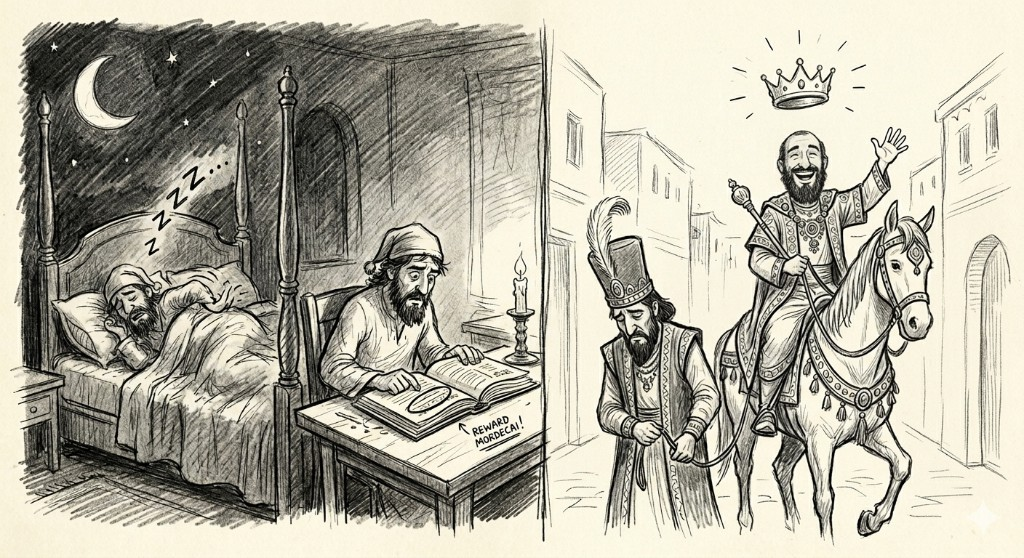
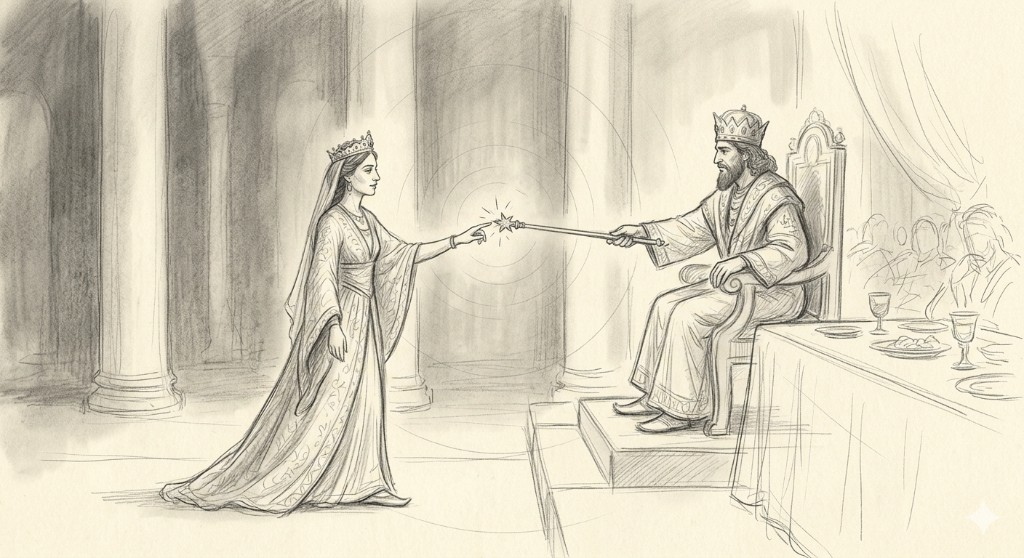
Update chapter 4 and 5 sketches, add responsive layout
New pencil art for Esther 4 and 5, mobile-friendly CSS, and image cache-busting so browsers load fresh sketches.

diff --git a/index.html b/index.html
@@ -2,7 +2,9 @@
 <html lang="en">
 <head>
 <meta charset="UTF-8">
-<meta name="viewport" content="width=device-width, initial-scale=1.0">
+<meta name="viewport" content="width=device-width, initial-scale=1.0, viewport-fit=cover">
+<meta name="theme-color" content="#FFF5EE">
+<meta name="mobile-web-app-capable" content="yes">
 <title>Esther: Animated Bible Study</title>
 <link rel="preconnect" href="https://fonts.googleapis.com">
 <link rel="preconnect" href="https://fonts.gstatic.com" crossorigin>
@@ -18,7 +20,9 @@
 *{margin:0;padding:0;box-sizing:border-box}
 html{scroll-behavior:smooth}
 body{background:var(--bg);color:var(--ink);font-family:'Spectral',Georgia,serif;
-  line-height:1.7;overflow-x:hidden;-webkit-font-smoothing:antialiased;}
+  font-size:clamp(1rem,.95rem + .25vw,1.08rem);line-height:1.7;overflow-x:hidden;
+  -webkit-font-smoothing:antialiased;-webkit-text-size-adjust:100%;text-size-adjust:100%;}
+img,svg,video{max-width:100%;height:auto}
 body::before{content:"";position:fixed;inset:0;z-index:-2;
   background:radial-gradient(1100px 700px at 85% -8%,rgba(186,64,115,.22),transparent 55%),
     radial-gradient(1000px 650px at -8% 30%,rgba(122,28,39,.18),transparent 55%),
@@ -31,13 +35,17 @@ body::before{content:"";position:fixed;inset:0;z-index:-2;
   box-shadow:0 0 14px rgba(186,64,115,.5);transition:width .1s linear;}
 nav{position:fixed;top:4px;left:0;right:0;z-index:90;background:rgba(255,245,238,.92);
   backdrop-filter:blur(14px);border-bottom:1px solid var(--line);
-  padding:.6rem clamp(1rem,4vw,3rem);display:flex;align-items:center;gap:1rem;flex-wrap:wrap;}
-nav .brand{font-family:'Fraunces',serif;font-weight:700;font-size:1.05rem;color:var(--magenta);white-space:nowrap;}
+  padding:.6rem clamp(.75rem,3vw,3rem);padding-left:max(.75rem,env(safe-area-inset-left));
+  padding-right:max(.75rem,env(safe-area-inset-right));
+  display:flex;align-items:center;gap:.65rem 1rem;flex-wrap:wrap;}
+nav .brand{font-family:'Fraunces',serif;font-weight:700;font-size:clamp(.95rem,2.5vw,1.05rem);
+  color:var(--magenta);white-space:nowrap;flex-shrink:0;}
 nav .brand span{color:var(--rose-deep)}
-nav .chips{display:flex;gap:.3rem;flex-wrap:wrap;}
+nav .chips{display:flex;gap:.35rem;flex-wrap:wrap;flex:1 1 auto;min-width:0;}
 nav .chip{font-family:'Quicksand',sans-serif;font-weight:700;font-size:.8rem;color:var(--purple);
-  border:1.5px solid rgba(122,28,39,.25);border-radius:30px;padding:.22rem .6rem;cursor:pointer;
-  transition:.25s;background:rgba(146,31,69,.06);}
+  border:1.5px solid rgba(122,28,39,.25);border-radius:30px;padding:.35rem .65rem;cursor:pointer;
+  transition:.25s;background:rgba(146,31,69,.06);min-height:2.5rem;min-width:2.5rem;
+  touch-action:manipulation;-webkit-tap-highlight-color:transparent;}
 nav .chip:hover{background:rgba(146,31,69,.14)}
 nav .chip.active{color:#fff;background:linear-gradient(135deg,var(--rose),var(--magenta));
   box-shadow:0 4px 12px rgba(146,31,69,.35);}
@@ -48,8 +56,10 @@ nav .chip.active{color:#fff;background:linear-gradient(135deg,var(--rose),var(--
 #sync-status.error{background:rgba(87,18,22,.15);color:var(--grape);}
 
 /* ── HERO ── */
-header.hero{min-height:100vh;display:flex;flex-direction:column;justify-content:center;
-  align-items:center;text-align:center;padding:6rem 1.5rem 3rem;position:relative;}
+header.hero{min-height:100vh;min-height:100dvh;min-height:100svh;display:flex;flex-direction:column;
+  justify-content:center;align-items:center;text-align:center;
+  padding:clamp(4.5rem,12vw,6rem) clamp(1rem,4vw,1.5rem) clamp(2rem,6vw,3rem);position:relative;}
+.hero-art{width:min(200px,78vw);height:auto;display:block}
 .hero .eyebrow{font-family:'Quicksand',sans-serif;font-weight:700;letter-spacing:.4em;
   text-transform:uppercase;color:var(--rose-deep);font-size:.82rem;margin:1.4rem 0 .6rem;
   animation:fade .9s ease both .1s;}
@@ -59,9 +69,10 @@ header.hero{min-height:100vh;display:flex;flex-direction:column;justify-content:
 .hero .sub{font-style:italic;font-family:'Fraunces',serif;font-weight:500;
   font-size:clamp(1.1rem,3.5vw,1.6rem);color:var(--purple);max-width:560px;margin-top:1rem;
   animation:fade 1s ease both .45s;}
-.hero .verse{margin-top:2rem;font-size:1.05rem;color:var(--ink-soft);max-width:560px;
-  background:rgba(255,255,255,.6);border:1.5px solid var(--line);border-radius:18px;
-  padding:1.1rem 1.4rem;box-shadow:var(--shadow);animation:fade 1s ease both .65s;}
+.hero .verse{margin-top:2rem;font-size:clamp(.95rem,2.8vw,1.05rem);color:var(--ink-soft);
+  width:100%;max-width:560px;background:rgba(255,255,255,.6);border:1.5px solid var(--line);
+  border-radius:18px;padding:clamp(.9rem,3vw,1.1rem) clamp(1rem,3.5vw,1.4rem);
+  box-shadow:var(--shadow);animation:fade 1s ease both .65s;}
 .hero .verse b{color:var(--rose-deep);font-weight:600}
 .hero .verse .cite{display:block;margin-top:.5rem;font-family:'Quicksand',sans-serif;
   font-weight:700;font-size:.78rem;letter-spacing:.16em;color:var(--rose-deep);}
@@ -72,8 +83,11 @@ header.hero{min-height:100vh;display:flex;flex-direction:column;justify-content:
 @keyframes bob{0%,100%{transform:translateY(0);opacity:.55}50%{transform:translateY(8px);opacity:1}}
 
 /* ── LAYOUT ── */
-main{max-width:960px;margin:0 auto;padding:0 clamp(1rem,5vw,2rem) 6rem;}
-section{padding:4.5rem 0 1rem;scroll-margin-top:84px;}
+main{max-width:min(960px,100%);margin:0 auto;padding:0 clamp(1rem,5vw,2rem) 6rem;
+  padding-left:max(clamp(1rem,5vw,2rem),env(safe-area-inset-left));
+  padding-right:max(clamp(1rem,5vw,2rem),env(safe-area-inset-right));
+  padding-bottom:max(6rem,calc(4rem + env(safe-area-inset-bottom)));}
+section{padding:clamp(2.5rem,8vw,4.5rem) 0 1rem;scroll-margin-top:clamp(88px,18vw,120px);}
 .reveal{opacity:0;transform:translateY(34px);transition:.85s cubic-bezier(.2,.7,.2,1);}
 .reveal.in{opacity:1;transform:none;}
 
@@ -87,8 +101,8 @@ section{padding:4.5rem 0 1rem;scroll-margin-top:84px;}
 .sec-title{font-family:'Fraunces',serif;font-weight:600;font-size:clamp(1.9rem,5vw,2.9rem);color:var(--magenta);}
 .sec-ref{font-family:'Quicksand',sans-serif;font-weight:700;font-size:.78rem;letter-spacing:.2em;
   text-transform:uppercase;color:var(--rose);margin-bottom:1.4rem;}
-.lede{font-size:1.22rem;color:var(--purple);font-style:italic;font-family:'Fraunces',serif;
-  font-weight:500;margin-bottom:1.6rem;line-height:1.5;}
+.lede{font-size:clamp(1.05rem,3.5vw,1.22rem);color:var(--purple);font-style:italic;
+  font-family:'Fraunces',serif;font-weight:500;margin-bottom:1.6rem;line-height:1.5;}
 
 /* ── SCENE (illustration) ── */
 .scene-wrap{margin:1.2rem 0 1.8rem;}
@@ -111,13 +125,15 @@ p{margin-bottom:1rem;color:var(--ink);}
   font-size:8rem;color:#fff;opacity:.14;}
 .verse-card .ref{font-family:'Quicksand',sans-serif;font-weight:700;font-size:.72rem;letter-spacing:.16em;
   text-transform:uppercase;color:var(--cream);margin-bottom:.4rem;}
-.verse-card .txt{font-family:'Fraunces',serif;font-style:italic;font-weight:500;font-size:1.28rem;line-height:1.45;}
+.verse-card .txt{font-family:'Fraunces',serif;font-style:italic;font-weight:500;
+  font-size:clamp(1.05rem,3.5vw,1.28rem);line-height:1.45;}
+.editable-app,ol.q .q-text{overflow-wrap:break-word;word-break:break-word}
 .themes{display:flex;flex-wrap:wrap;gap:.5rem;margin:.5rem 0 0;}
 .theme{font-family:'Quicksand',sans-serif;font-weight:600;font-size:.78rem;border-radius:30px;
   padding:.35rem .85rem;color:#fff;background:linear-gradient(135deg,var(--purple),var(--grape));}
 .theme:nth-child(2n){background:linear-gradient(135deg,var(--magenta),var(--rose));}
 .theme:nth-child(3n){background:linear-gradient(135deg,var(--rose),var(--rose-deep));color:#fff;}
-.panel{border-radius:18px;padding:1.4rem 1.6rem;margin-top:1rem;}
+.panel{border-radius:18px;padding:clamp(1rem,3vw,1.4rem) clamp(1rem,3.5vw,1.6rem);margin-top:1rem;}
 .panel.app{background:linear-gradient(135deg,#FFF5EE,#FAD5C2);border:1.5px solid rgba(186,64,115,.25);}
 .panel.app .block-label{color:var(--rose-deep)}
 ol.q{margin:.4rem 0 0 0;list-style:none;padding:0;}
@@ -140,7 +156,8 @@ ol.q .q-text:empty::before{content:'Type a question…';color:var(--rose);opacit
 .block-label-row .block-label{margin:0;}
 .btn-add-q,.btn-reset{font-family:'Quicksand',sans-serif;font-weight:700;font-size:.72rem;letter-spacing:.08em;
   text-transform:uppercase;border:1.5px solid rgba(146,31,69,.3);background:rgba(255,255,255,.7);
-  color:var(--rose-deep);border-radius:30px;padding:.35rem .85rem;cursor:pointer;transition:.2s;}
+  color:var(--rose-deep);border-radius:30px;padding:.45rem .95rem;cursor:pointer;transition:.2s;
+  min-height:2.75rem;touch-action:manipulation;-webkit-tap-highlight-color:transparent;}
 .btn-add-q:hover,.btn-reset:hover{background:var(--rose-deep);color:#fff;border-color:var(--rose-deep);}
 .edit-note{font-size:.92rem;color:var(--ink-soft);background:rgba(250,213,194,.35);border:1px solid rgba(186,64,115,.2);
   border-radius:14px;padding:1rem 1.2rem;margin:1rem 0 0;}
@@ -153,9 +170,11 @@ ol.q .q-text:empty::before{content:'Type a question…';color:var(--rose);opacit
   text-transform:uppercase;color:var(--rose);opacity:.7;margin-left:auto;}
 .panel.app .block-label-row{margin-top:0;margin-bottom:.5rem;}
 footer{text-align:center;padding:4rem 1.5rem 5rem;color:var(--purple);font-family:'Quicksand',sans-serif;font-weight:600;letter-spacing:.06em;font-size:.9rem;}
-#top{position:fixed;bottom:1.2rem;right:1.2rem;z-index:80;width:48px;height:48px;border-radius:50%;border:none;
+#top{position:fixed;bottom:max(1.2rem,env(safe-area-inset-bottom));right:max(1.2rem,env(safe-area-inset-right));
+  z-index:80;width:48px;height:48px;border-radius:50%;border:none;
   background:linear-gradient(135deg,var(--rose),var(--magenta));color:#fff;cursor:pointer;display:grid;
-  place-items:center;opacity:0;transform:translateY(20px);transition:.3s;box-shadow:0 8px 20px rgba(146,31,69,.4);font-size:1.2rem;}
+  place-items:center;opacity:0;transform:translateY(20px);transition:.3s;box-shadow:0 8px 20px rgba(146,31,69,.4);
+  font-size:1.2rem;touch-action:manipulation;-webkit-tap-highlight-color:transparent;}
 #top.show{opacity:1;transform:none}
 
 /* ── BASE STICK FIGURE ANIMATIONS ── */
@@ -193,6 +212,46 @@ footer{text-align:center;padding:4rem 1.5rem 5rem;color:var(--purple);font-famil
 @keyframes legA{0%,100%{transform:rotate(30deg)}50%{transform:rotate(-30deg)}}
 @keyframes legB{0%,100%{transform:rotate(-30deg)}50%{transform:rotate(30deg)}}
 
+/* ── RESPONSIVE: phone, tablet, laptop ── */
+@media (max-width:768px){
+  nav{align-items:flex-start}
+  nav .chips{order:3;flex:1 1 100%;width:100%;flex-wrap:nowrap;overflow-x:auto;
+    overflow-y:hidden;padding:.2rem 0 .4rem;-webkit-overflow-scrolling:touch;
+    scrollbar-width:none;overscroll-behavior-x:contain}
+  nav .chips::-webkit-scrollbar{display:none}
+  nav .chip{flex-shrink:0}
+  #sync-status{margin-left:auto;flex-shrink:0}
+  .sec-head{align-items:flex-start}
+  .sec-title{flex:1;min-width:0}
+  .verse-card::before{font-size:clamp(4rem,18vw,8rem)}
+  .block-label-row{align-items:stretch}
+  .block-label-row .btn-add-q{align-self:flex-start}
+  #save-toast{right:max(1rem,env(safe-area-inset-right));left:max(1rem,env(safe-area-inset-left));
+    bottom:max(5.25rem,calc(4.75rem + env(safe-area-inset-bottom)));text-align:center}
+  #top{width:52px;height:52px}
+  .q-remove{width:2.75rem;height:2.75rem}
+}
+@media (max-width:480px){
+  nav .brand span{display:none}
+  .hero .eyebrow{letter-spacing:.22em;font-size:.72rem}
+  .scene{border-radius:14px;padding:.55rem}
+  .btn-reset{display:block;width:100%;max-width:100%}
+  footer{font-size:.85rem;padding-left:max(1rem,env(safe-area-inset-left));
+    padding-right:max(1rem,env(safe-area-inset-right))}
+}
+@media (min-width:769px) and (max-width:1024px){
+  main{max-width:90%}
+  nav .chip{padding:.32rem .7rem}
+}
+@media (min-width:1200px){
+  main{max-width:68rem}
+}
+@media (prefers-reduced-motion:reduce){
+  html{scroll-behavior:auto}
+  *,*::before,*::after{animation-duration:.01ms!important;animation-iteration-count:1!important;
+    transition-duration:.01ms!important}
+}
+
 </style>
 </head>
 <body>
@@ -205,7 +264,7 @@ footer{text-align:center;padding:4rem 1.5rem 5rem;color:var(--purple);font-famil
 </nav>
 
 <header class="hero">
-  <svg viewBox="0 0 240 200" width="200" height="166" aria-hidden="true">
+  <svg class="hero-art" viewBox="0 0 240 200" aria-hidden="true">
     <defs>
       <linearGradient id="hcrown" x1="0" y1="0" x2="0" y2="1"><stop offset="0" stop-color="#FAD5C2"/><stop offset="1" stop-color="#BA4073"/></linearGradient>
       <radialGradient id="halo" cx="50%" cy="40%" r="60%"><stop offset="0" stop-color="#BA4073" stop-opacity=".5"/><stop offset="1" stop-color="#BA4073" stop-opacity="0"/></radialGradient>
@@ -583,6 +642,7 @@ chapters.forEach((c, i) => {
   const content = getChapterContent(c);
 
   const chip = document.createElement('button');
+  chip.type = 'button';
   chip.className = 'chip';
   chip.textContent = c.n;
   chip.title = 'Chapter ' + c.n + ': ' + c.title;

diff --git a/scenes.js b/scenes.js
@@ -1,13 +1,14 @@
-// Chapter illustrations : your hand-drawn sketches
+// Chapter illustrations : your hand-drawn sketches (bump IMG_V when you replace a sketch)
+const IMG_V = '20260604';
 const scenes = {
-  1: `<div class="scene-sketch"><img src="images/ch1.png" alt="Esther 1 : King commands Vashti; she refuses" width="700" height="auto"></div>`,
-  2: `<div class="scene-sketch"><img src="images/ch2.png" alt="Esther 2 : Esther's coronation and Mordecai spying on the plot" width="700" height="auto"></div>`,
-  3: `<div class="scene-sketch"><img src="images/ch3.png" alt="Esther 3 : Mordecai will not bow; the decree goes out" width="700" height="auto"></div>`,
-  4: `<div class="scene-sketch"><img src="images/ch4.png" alt="Esther 4 : Esther touches the king's golden sceptre" width="700" height="auto"></div>`,
-  5: `<div class="scene-sketch"><img src="images/ch5.png" alt="Esther 5 : Sleepless king and reward for Mordecai" width="700" height="auto"></div>`,
-  6: `<div class="scene-sketch"><img src="images/ch6.png" alt="Esther 6 : King's sleepless night; Haman leads Mordecai in honor" width="700" height="auto"></div>`,
-  7: `<div class="scene-sketch"><img src="images/ch7.png" alt="Esther 7 : It is Haman" width="700" height="auto"></div>`,
-  8: `<div class="scene-sketch"><img src="images/ch8.png" alt="Esther 8 : Old decree hangs heavy; a new decree of hope; joyful gathering" width="700" height="auto"></div>`,
-  9: `<div class="scene-sketch"><img src="images/ch9.png" alt="Esther 9 : Purim celebration" width="700" height="auto"></div>`,
-  10: `<div class="scene-sketch"><img src="images/ch10.png" alt="Esther 10 : Second to the king, seeking their welfare" width="700" height="auto"></div>`
+  1: `<div class="scene-sketch"><img loading="lazy" decoding="async" src="images/ch1.png?v=${IMG_V}" alt="Esther 1 : King commands Vashti; she refuses" width="700" height="auto"></div>`,
+  2: `<div class="scene-sketch"><img loading="lazy" decoding="async" src="images/ch2.png?v=${IMG_V}" alt="Esther 2 : Esther's coronation and Mordecai spying on the plot" width="700" height="auto"></div>`,
+  3: `<div class="scene-sketch"><img loading="lazy" decoding="async" src="images/ch3.png?v=${IMG_V}" alt="Esther 3 : Mordecai will not bow; the decree goes out" width="700" height="auto"></div>`,
+  4: `<div class="scene-sketch"><img loading="lazy" decoding="async" src="images/ch4.png?v=${IMG_V}" alt="Esther 4 : Mordecai mourns; Esther approaches, For such a time as this" width="700" height="auto"></div>`,
+  5: `<div class="scene-sketch"><img loading="lazy" decoding="async" src="images/ch5.png?v=${IMG_V}" alt="Esther 5 : Queen Esther touches the king's golden sceptre in the throne room" width="700" height="auto"></div>`,
+  6: `<div class="scene-sketch"><img loading="lazy" decoding="async" src="images/ch6.png?v=${IMG_V}" alt="Esther 6 : King's sleepless night; Haman leads Mordecai in honor" width="700" height="auto"></div>`,
+  7: `<div class="scene-sketch"><img loading="lazy" decoding="async" src="images/ch7.png?v=${IMG_V}" alt="Esther 7 : It is Haman" width="700" height="auto"></div>`,
+  8: `<div class="scene-sketch"><img loading="lazy" decoding="async" src="images/ch8.png?v=${IMG_V}" alt="Esther 8 : Old decree hangs heavy; a new decree of hope; joyful gathering" width="700" height="auto"></div>`,
+  9: `<div class="scene-sketch"><img loading="lazy" decoding="async" src="images/ch9.png?v=${IMG_V}" alt="Esther 9 : Purim celebration" width="700" height="auto"></div>`,
+  10: `<div class="scene-sketch"><img loading="lazy" decoding="async" src="images/ch10.png?v=${IMG_V}" alt="Esther 10 : Second to the king, seeking their welfare" width="700" height="auto"></div>`
 };